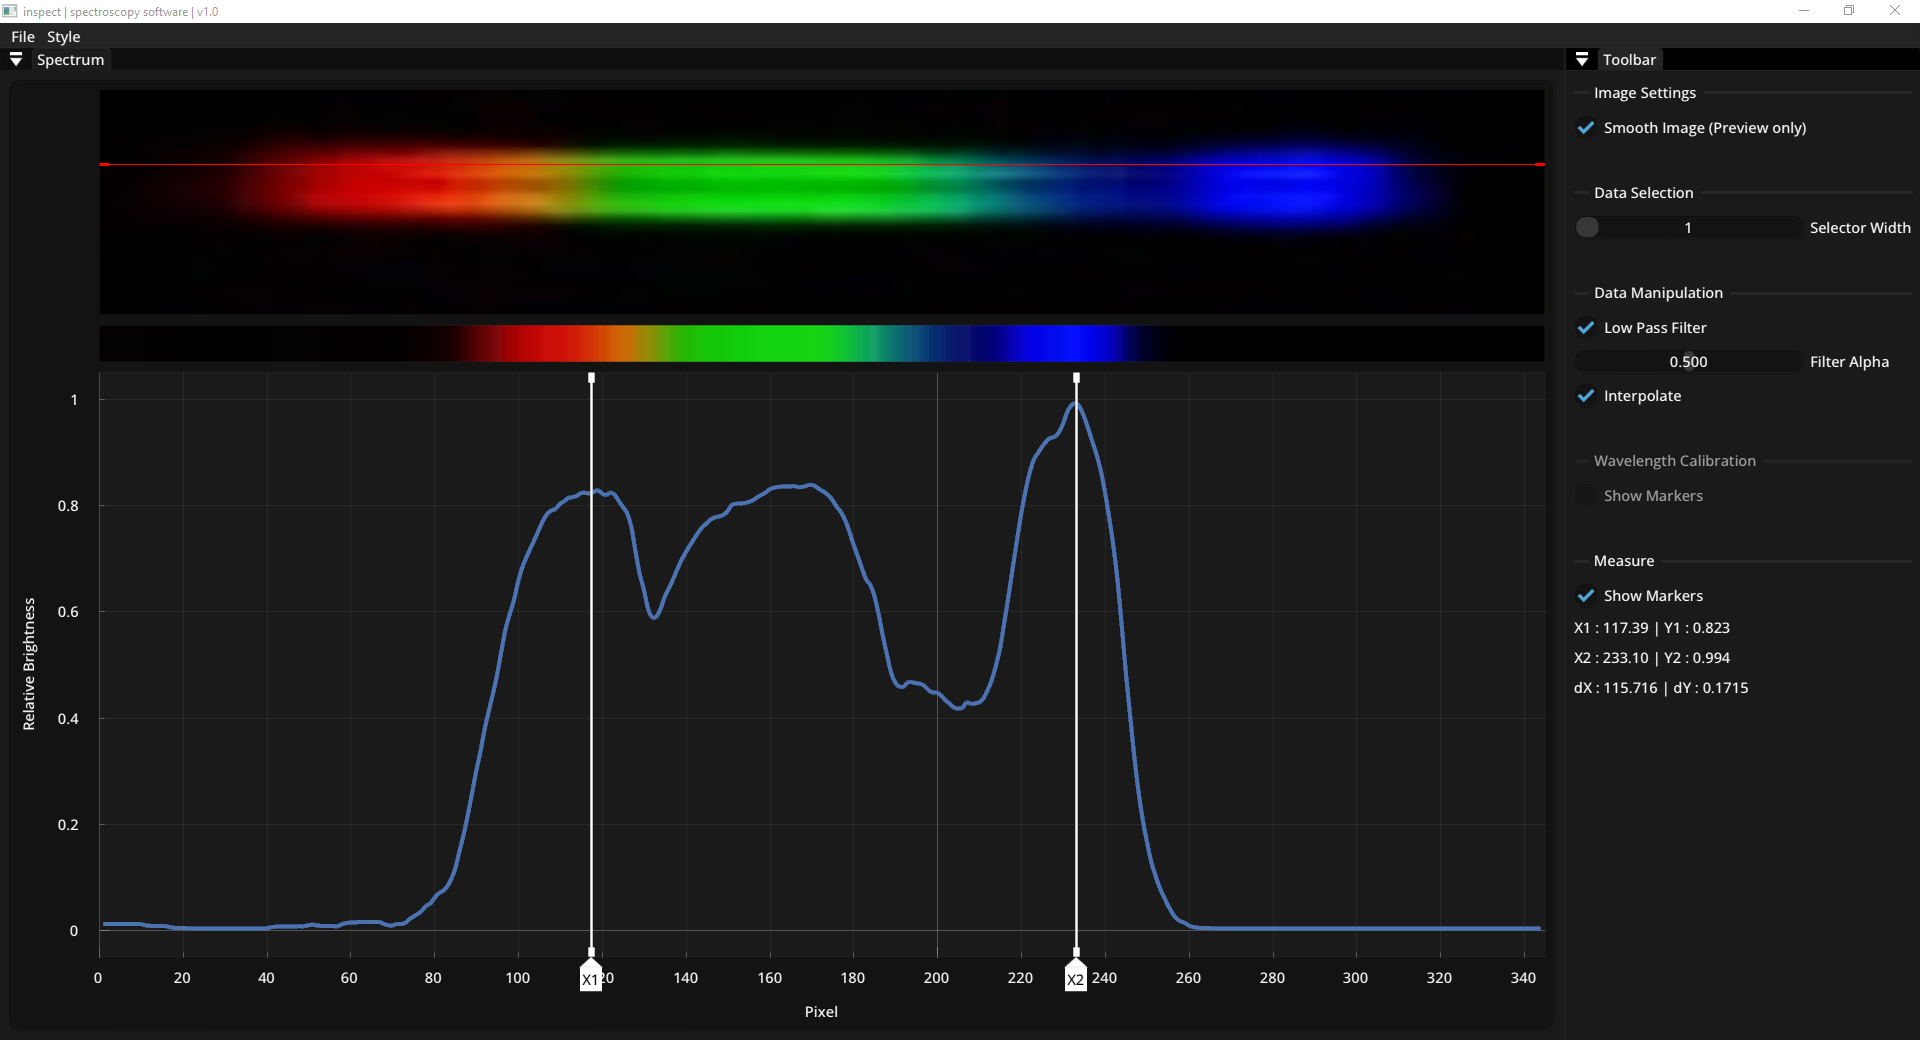
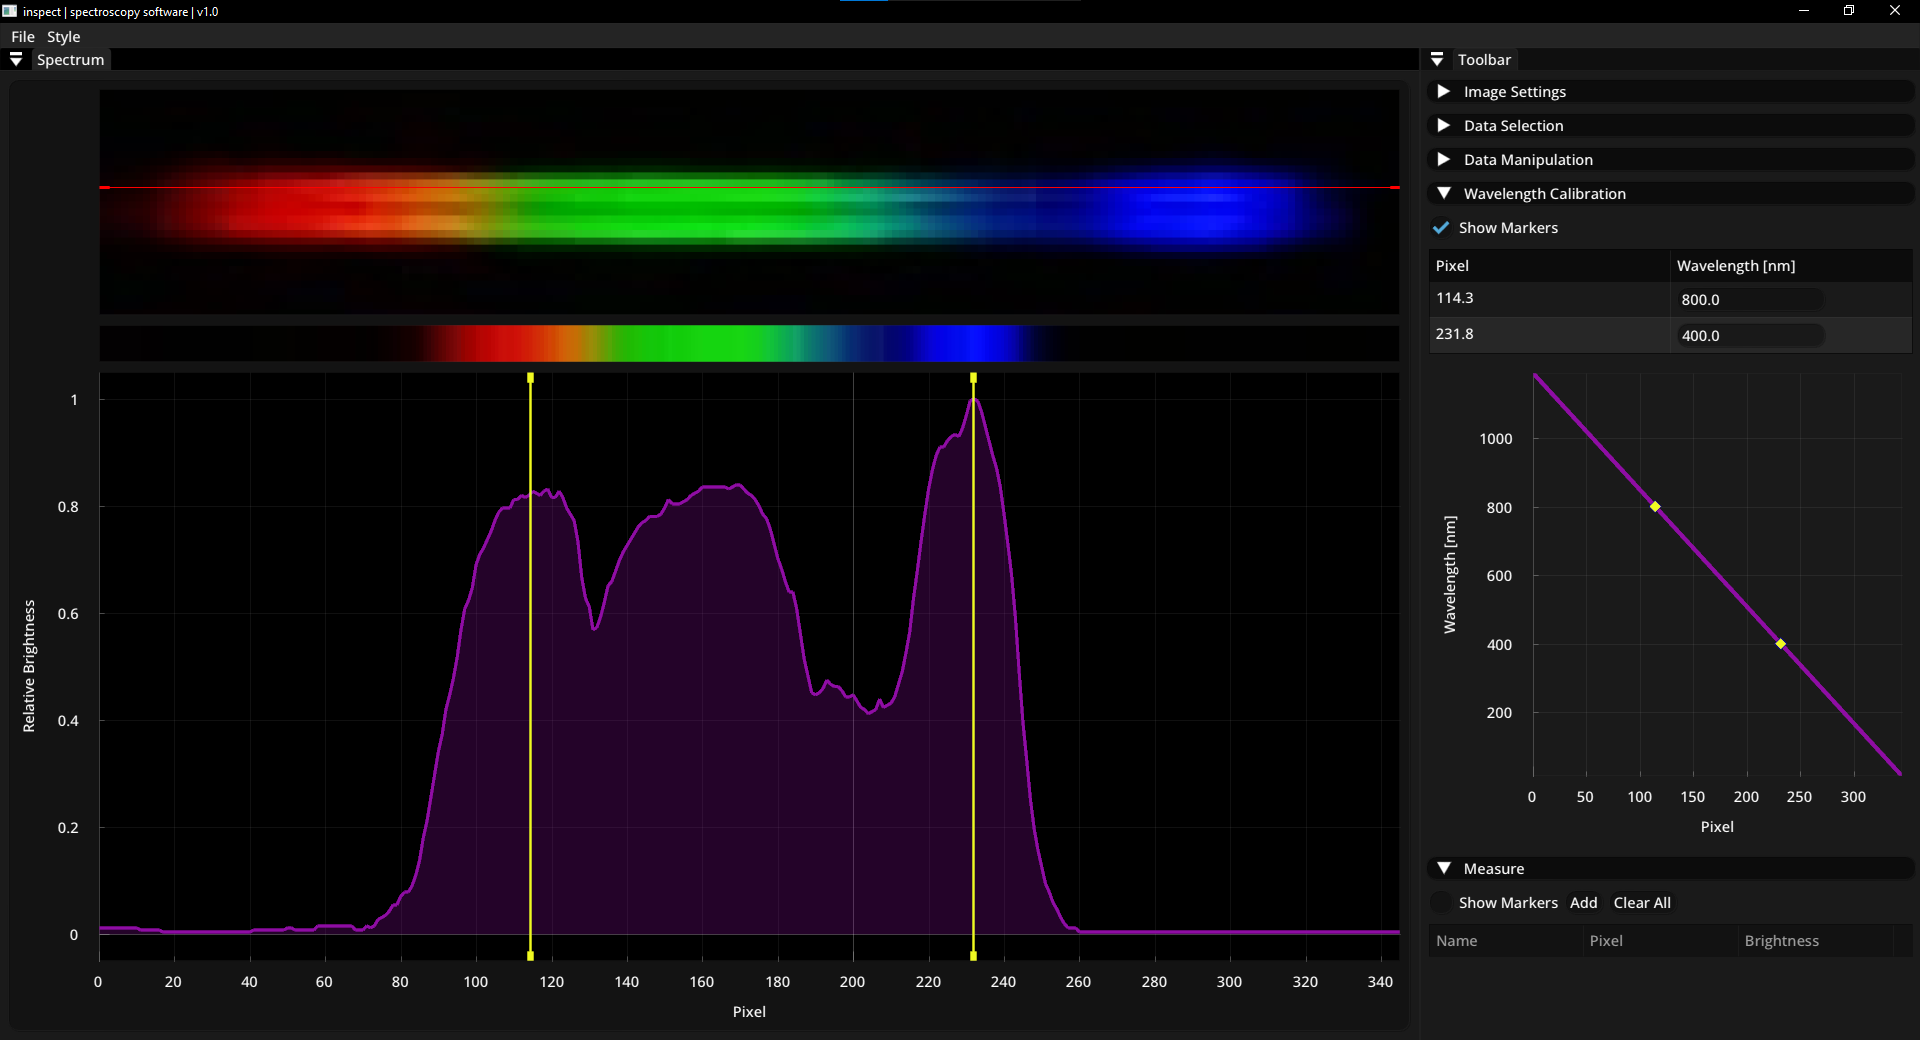
enable window task bar dark mode

diff --git a/src/inspect.cpp b/src/inspect.cpp
@@ -7,6 +7,7 @@
 #include <ranges>
 #include <iterator>
 #include <windows.h>
+#include <dwmapi.h>
 
 #include <SFML/Graphics.hpp>
 #include <SFML/System/Clock.hpp>
@@ -35,7 +36,9 @@ int main(int argc, char *argv[])
     window.setFramerateLimit(INSPECT_MAX_FPS);
     window.setVerticalSyncEnabled(INSPECT_VSYNC);
 
-    ::ShowWindow(window.getSystemHandle(), SW_MAXIMIZE);
+    BOOL USE_DARK_MODE = true;
+    DwmSetWindowAttribute(window.getSystemHandle(), DWMWINDOWATTRIBUTE::DWMWA_USE_IMMERSIVE_DARK_MODE, &USE_DARK_MODE, sizeof(USE_DARK_MODE));
+    ShowWindow(window.getSystemHandle(), SW_MAXIMIZE);
 
     if (!ImGui::SFML::Init(window))
     {
